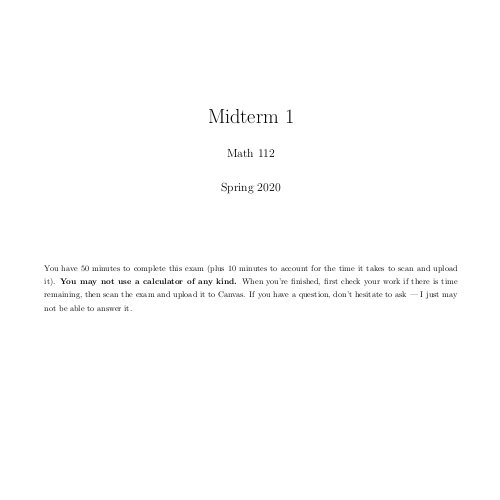
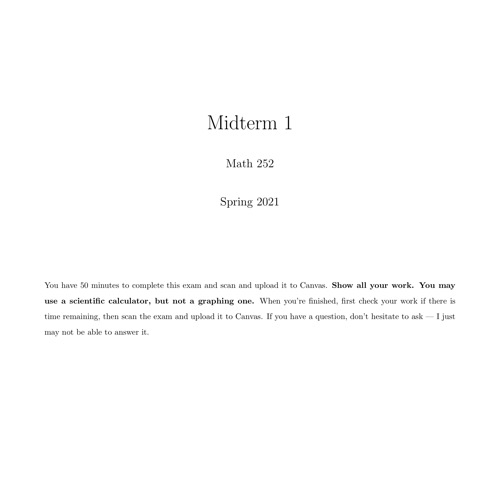
Put midterm 1 on the 252 site

Changed region(s): [[0.09, 0.51, 0.93, 0.69], [0.42, 0.3, 0.57, 0.42], [0.42, 0.21, 0.6, 0.27]]

diff --git a/teaching/uo/252/252.html b/teaching/uo/252/252.html
@@ -49,6 +49,8 @@
 	
 	!begin-image-links
 		
+		exams/1/midterm-1.pdf l Midterm 1
+		
 		extra/practice-midterm-1-solutions/practice-midterm-1-solutions.pdf l Practice Midterm 1 Solutions
 		
 		extra/practice-midterm-1/practice-midterm-1.pdf l Practice Midterm 1
